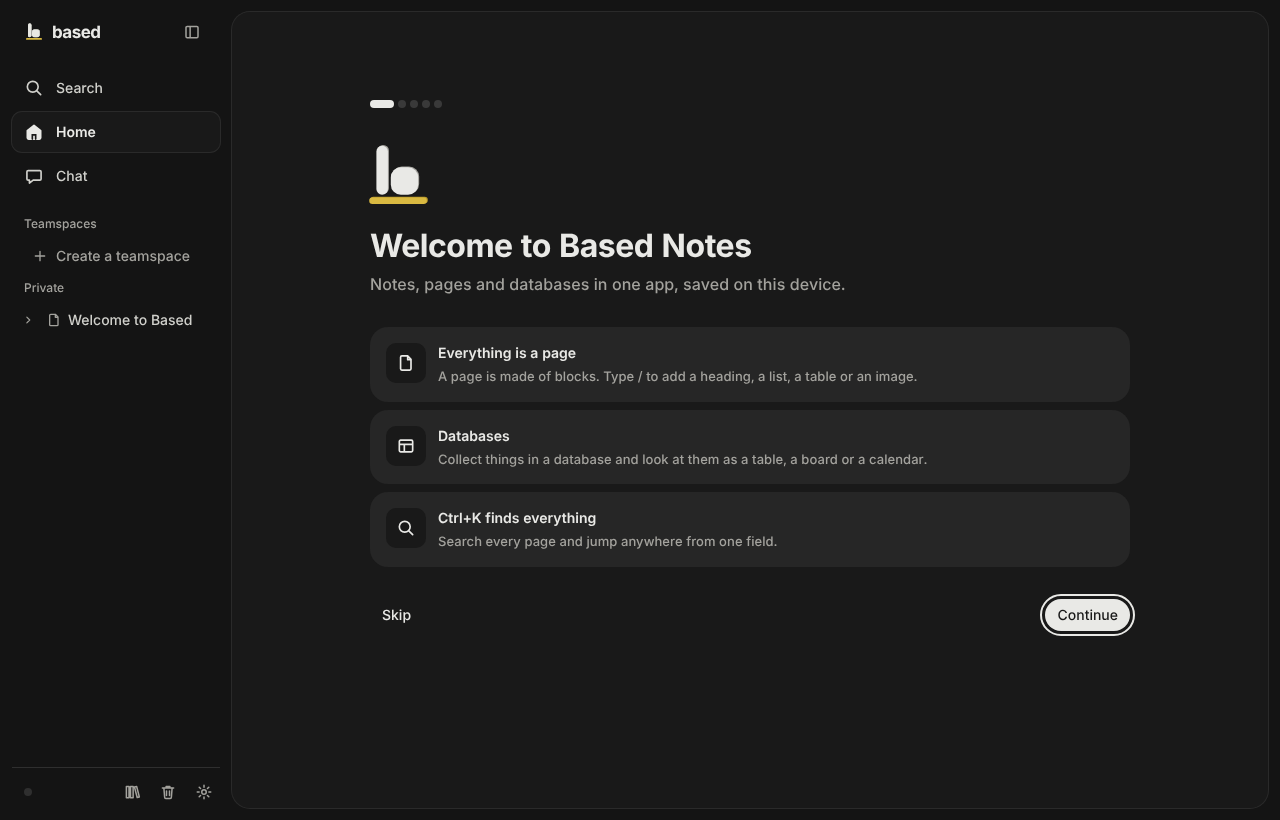
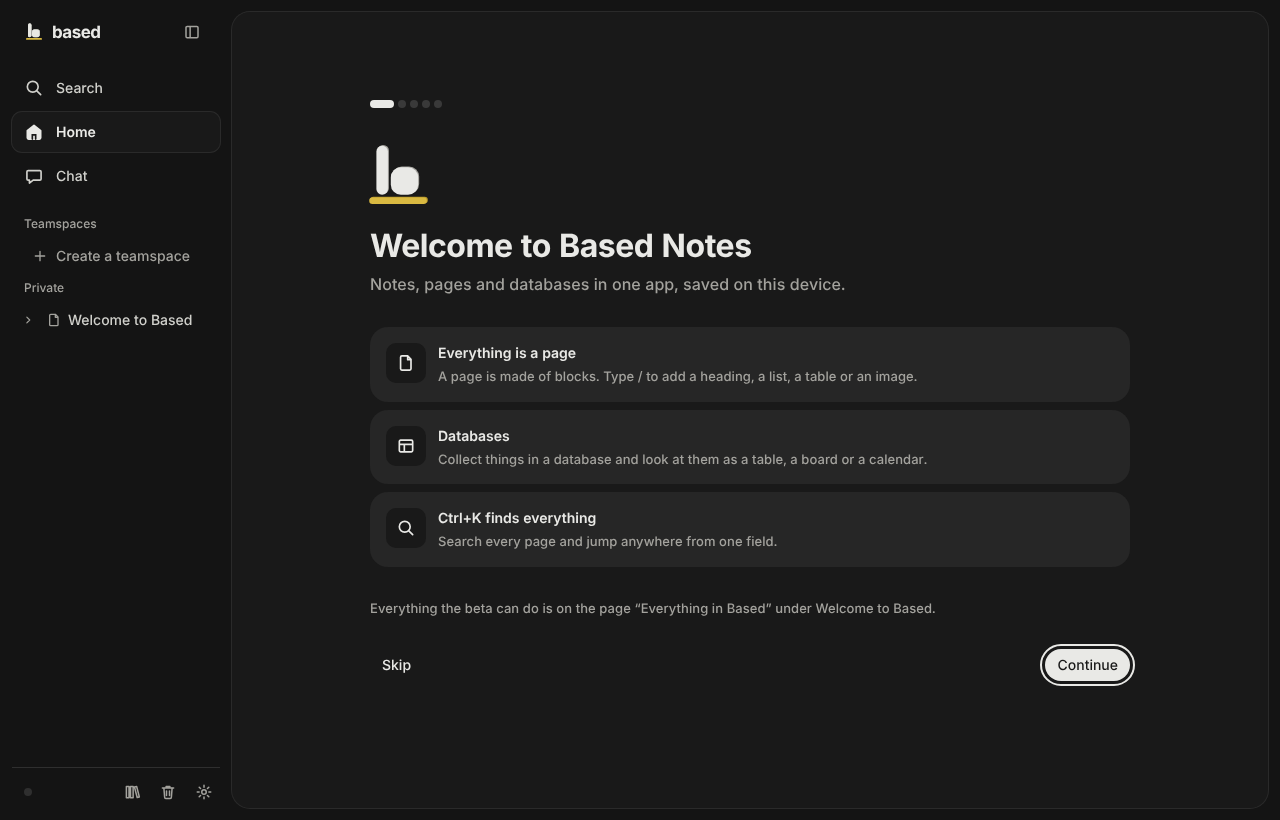
BSD-552: Mac-Beta · Einstieg 2: Seite „Everything in Based“ mit allen Funktionen der Beta
Fünfte Anleitung unter „Welcome to Based“ (worker/welcomeGuides.ts): alle
Funktionen der Beta nach Bereich (Pages and writing, Databases, Search and
navigation, Import and export, Your data, Meeting notes, The Mac app), je eine
Zeile mit Tastenkürzel, am Ende „Not in this beta yet“ (AI, iPhone, Sync über
Server, Teilen). Jede Zeile nennt ihre Zeile in replica/features.csv;
welcomeGuides.test.ts prüft beta = beta und ts = yes|partial und dass nichts
Ausgeblendetes genannt wird. Entsteht wie die anderen Anleitungen nur bei der
Wahl im Willkommen (bestehende Workspaces bekommen sie nicht). Im ersten
Schritt des Einstiegs genannt. E2E welcome.spec, Fotos hell/dunkel.

Claude-Session: https://claude.ai/code/session_01F33L4nMq24hNmEKsXnkjoA

Changed region(s): [[0.2812, 0.7317, 0.7188, 0.7622], [0.8125, 0.7012, 0.9062, 0.8537], [0.2812, 0.7927, 0.3125, 0.8232]]

diff --git a/apps/web/src/worker/welcomeGuides.ts b/apps/web/src/worker/welcomeGuides.ts
@@ -69,7 +69,106 @@ const GUIDES: readonly WelcomeGuide[] = [
   },
 ];
 
-export const WELCOME_GUIDES: readonly WelcomeGuide[] = welcomeGuides();
+/**
+ * BSD-552 (Mac-Beta, Einstieg 2): „Everything in Based“ – alle Funktionen der Beta, eine Zeile je Funktion. Jede Zeile
+ * nennt die Zeile in replica/features.csv, aus der sie kommt (Spalte `feature`); welcomeGuides.test.ts prüft, dass
+ * jede davon `beta = beta` und `ts = yes|partial` hat. Nichts, was auf beta ausgeblendet ist (AI, Graph, Coding,
+ * Echtzeit, Teilen, Whiteboard).
+ */
+export interface FeatureLine {
+  /** Name der Zeile in replica/features.csv */
+  readonly feature: string;
+  readonly text: string;
+}
+
+export const EVERYTHING_TITLE = "Everything in Based";
+
+export const EVERYTHING_GROUPS: readonly { readonly heading: string; readonly items: readonly FeatureLine[] }[] = [
+  {
+    heading: "Pages and writing",
+    items: [
+      { feature: "Slash command menu with search", text: "Type / in an empty line for any block: headings, lists, to-dos, toggles, callouts, code, tables, images and more." },
+      { feature: "Markdown block shortcuts (# - * + 1. [] > ``` ---)", text: "Markdown works as you type: # for a heading, - for a list, [] for a to-do, > for a quote." },
+      { feature: "Nested subpages (page inside page)", text: "Pages hold other pages, as deep as you like." },
+      { feature: "Columns (2-5)", text: "Drag a block next to another to make columns." },
+      { feature: "Turn into (any block type)", text: "Turn any block into another type from the block menu (⌘/)." },
+      { feature: "Undo / redo for text and structure", text: "⌘Z undoes typing, moves and deletes." },
+      { feature: "Page mention (@ / [[)", text: "Type @ to link a page or a date. Backlinks show where a page is mentioned." },
+      { feature: "Page icon (emoji)", text: "Give pages an icon, a cover, a font and full width." },
+      { feature: "Synced block", text: "Synced blocks show the same content in several places." },
+      { feature: "Find in page", text: "⌘F finds text on the page." },
+    ],
+  },
+  {
+    heading: "Databases",
+    items: [
+      { feature: "Database full page", text: "Create a database with ⌘N, as a full page or inside a page." },
+      { feature: "Multiple views per database", text: "See the same rows as a table, board, list, gallery, calendar, timeline or chart." },
+      { feature: "Filters (and/or groups)", text: "Filter, sort and group each view on its own." },
+      { feature: "Property: formula (Formula 2.0)", text: "Properties for text, numbers, dates, select, status, people, files, formulas, relations and rollups." },
+      { feature: "Row opens as page (side peek / center / full)", text: "Every row is a page. Open it at the side, in the center or full screen." },
+      { feature: "Database templates", text: "Templates fill new rows for you." },
+      { feature: "Large database performance (50k rows)", text: "Tens of thousands of rows stay fast." },
+    ],
+  },
+  {
+    heading: "Search and navigation",
+    items: [
+      { feature: "Quick Find search (titles + content)", text: "⌘K searches titles and text of every page, with recent pages first." },
+      { feature: "Tabs (Mac)", text: "Open pages in tabs (⌘T, ⌘W) or in a new window." },
+      { feature: "Favorites", text: "Star pages to keep them at the top of the sidebar." },
+      { feature: "Back / forward history", text: "⌘[ and ⌘] go back and forward." },
+      { feature: "Choose Home page", text: "Pick any page as Home." },
+    ],
+  },
+  {
+    heading: "Import and export",
+    items: [
+      { feature: "Import Notion export (Markdown & CSV)", text: "Bring your Notion export over with pages, databases and relations. Connect Notion directly to bring the views too." },
+      { feature: "Import Markdown files", text: "Import Markdown, HTML, CSV, Word, Obsidian, Logseq, Bear and Evernote." },
+      { feature: "Export page as Markdown", text: "Export a page or the whole workspace as Markdown, HTML, PDF or Word." },
+      { feature: "Lossless workspace archive export/import", text: "A Based archive keeps everything and imports back one to one." },
+    ],
+  },
+  {
+    heading: "Your data",
+    items: [
+      { feature: "Offline editing", text: "Everything works offline. Your workspace is a file on this Mac." },
+      { feature: "Automatic local backups + one-click restore", text: "Backups every hour, when you quit and before updates. Restore one in Settings." },
+      { feature: "Page history / versions", text: "Every page keeps its versions. Open the history to restore an older one." },
+      { feature: "Trash with restore and delete forever", text: "Deleted pages wait in the Trash until you empty it." },
+    ],
+  },
+  {
+    heading: "Meeting notes",
+    items: [
+      { feature: "Meeting notes (/meet): recording and on-device transcript", text: "Type /meet to record a meeting. The transcript is made on this Mac." },
+    ],
+  },
+  {
+    heading: "The Mac app",
+    items: [
+      { feature: "Dark mode (system + toggle)", text: "Light, dark or the system setting. ⇧⌘L switches." },
+      { feature: "Keyboard shortcuts: ⌘N ⌘P ⌘\\ ⌘[ ⌘] ⇧⌘L", text: "Hold ⌘ to see the shortcuts for where you are. ⇧⌘/ shows all of them." },
+      { feature: "Diagnostics: logs, hang watchdog, crash report, layout audit", text: "⇧⌘B saves a report of what just happened, to send to hello@basednotes.app." },
+    ],
+  },
+];
+
+/** Am Ende der Seite: was die Beta noch nicht kann (Entscheidung Elija 18.11.). */
+export const NOT_IN_BETA: readonly string[] = ["AI and agents", "The iPhone app", "Sync through a server for everyone", "Sharing pages with other people"];
+
+const EVERYTHING: WelcomeGuide = {
+  title: EVERYTHING_TITLE,
+  lines: [
+    ["text", "What you can do in this beta, one line each. Skim it now and come back when you need it."],
+    ...EVERYTHING_GROUPS.flatMap((g): Line[] => [["heading2", g.heading], ...g.items.map((it): Line => ["bulletedList", it.text])]),
+    ["heading2", "Not in this beta yet"],
+    ...NOT_IN_BETA.map((t): Line => ["bulletedList", t]),
+  ],
+};
+
+export const WELCOME_GUIDES: readonly WelcomeGuide[] = [...welcomeGuides(), EVERYTHING];
 
 /**
  * Legt die Willkommensseiten unter `parentID` an (am Ende, in fester Reihenfolge) und gibt ihre IDs zurück.

diff --git a/apps/web/src/worker/welcomeGuides.test.ts b/apps/web/src/worker/welcomeGuides.test.ts
@@ -1,6 +1,28 @@
 // BSD-305 Teil 5: Die Anleitung „Your data“ erwähnt AI nur in Builds, die AI anbieten (auf beta fehlt der Schalter).
+import { readFileSync } from "node:fs";
 import { describe, expect, it } from "vitest";
-import { welcomeGuides } from "./welcomeGuides.js";
+import { EVERYTHING_GROUPS, EVERYTHING_TITLE, NOT_IN_BETA, WELCOME_GUIDES, welcomeGuides } from "./welcomeGuides.js";
+
+/** replica/features.csv als Zeilen (einfacher CSV-Leser mit Anführungszeichen). */
+function features(): Map<string, Record<string, string>> {
+  const raw = readFileSync(new URL("../../../../replica/features.csv", import.meta.url), "utf8");
+  const rows: string[][] = [];
+  let row: string[] = [], cell = "", quoted = false;
+  for (let i = 0; i < raw.length; i++) {
+    const c = raw[i]!;
+    if (quoted) {
+      if (c === '"' && raw[i + 1] === '"') { cell += '"'; i++; }
+      else if (c === '"') quoted = false;
+      else cell += c;
+    } else if (c === '"') quoted = true;
+    else if (c === ",") { row.push(cell); cell = ""; }
+    else if (c === "\n") { row.push(cell); rows.push(row); row = []; cell = ""; }
+    else if (c !== "\r") cell += c;
+  }
+  if (cell || row.length) { row.push(cell); rows.push(row); }
+  const [head, ...body] = rows;
+  return new Map(body.map((r) => [r[0]!, Object.fromEntries(head!.map((h, i) => [h, r[i] ?? ""]))]));
+}
 
 const text = (ai: boolean) => welcomeGuides(ai).flatMap((g) => g.lines.map((l) => l[1])).join("\n");
 
@@ -19,5 +41,25 @@ describe("welcomeGuides", () => {
       expect(notion.length).toBeGreaterThan(0);
       for (const t of notion) if (/\bviews?\b/i.test(t)) expect(t).toMatch(/connect notion directly/i);
     }
+  });
+  it("BSD-552: „Everything in Based“ nennt nur Funktionen der Beta (features.csv: beta = beta, ts = yes|partial)", () => {
+    const csv = features();
+    const items = EVERYTHING_GROUPS.flatMap((g) => g.items);
+    expect(items.length).toBeGreaterThan(20);
+    for (const it of items) {
+      const row = csv.get(it.feature);
+      expect(row, it.feature).toBeDefined();
+      expect(row!.beta, it.feature).toBe("beta");
+      expect(row!.ts, it.feature).toMatch(/^(yes|partial)/);
+    }
+    // nichts, was auf beta ausgeblendet ist – außer in „Not in this beta yet“
+    const said = items.map((i) => i.text).join("\n");
+    expect(said).not.toMatch(/\bAI\b|agent|graph|coding|whiteboard|real-?time|share|sharing/i);
+    expect(NOT_IN_BETA.join(" ")).toMatch(/AI/);
+  });
+  it("BSD-552: fünfte Anleitung, unter drei Minuten zu lesen", () => {
+    expect(WELCOME_GUIDES.map((g) => g.title)).toEqual(["Basics", "Databases", "Keyboard", "Your data", EVERYTHING_TITLE]);
+    const words = WELCOME_GUIDES.at(-1)!.lines.map((l) => l[1]).join(" ").split(/\s+/).length;
+    expect(words).toBeLessThan(3 * 200); // ~200 Wörter pro Minute
   });
 });

diff --git a/apps/web/e2e/welcome.spec.ts b/apps/web/e2e/welcome.spec.ts
@@ -61,7 +61,7 @@ test("Frischer Speicher → Willkommen → Turn on agents → Start empty → An
 
     await welcome(page).getByRole("button", { name: /Start empty/ }).click();
     await expect(page.getByLabel("Page title")).toHaveValue("Welcome to Based");
-    for (const t of ["Basics", "Databases", "Keyboard", "Your data"]) await expect(page.getByTestId("page-content").getByText(t, { exact: true })).toBeVisible();
+    for (const t of ["Basics", "Databases", "Keyboard", "Your data", "Everything in Based"]) await expect(page.getByTestId("page-content").getByText(t, { exact: true })).toBeVisible();
 
     // danach die gewohnte Startseite, auch nach dem Neuladen
     await page.getByRole("button", { name: "Home" }).click();
@@ -212,6 +212,34 @@ test("Einstieg erneut über ⌘K „Welcome tour“: ohne Wahl am Ende, Daten bl
     await expect(tour(page)).toHaveCount(0);
   } finally {
     await close();
+  }
+});
+
+// BSD-552 (Mac-Beta, Einstieg 2): „Everything in Based“ als fünfte Anleitung – echte Seite mit den Bereichen und
+// „Not in this beta yet“, im ersten Schritt des Einstiegs genannt. Fotos 1280 × 820 hell/dunkel.
+test("Everything in Based: fünfte Anleitung mit allen Bereichen, im Einstieg genannt", async ({ playwright, browserName, baseURL }) => {
+  for (const theme of ["light", "dark"] as const) {
+    const { page, close } = await fresh(playwright, browserName, baseURL!);
+    try {
+      await page.addInitScript((t) => localStorage.setItem("based.appearance", JSON.stringify({ theme: t })), theme);
+      await page.goto("/");
+      await ready(page);
+      await expect(tour(page).getByTestId("welcome-tour-foot")).toContainText("Everything in Based");
+      await skipTour(page);
+      await expect(welcome(page).getByRole("button", { name: /Start empty/ })).toContainText("Everything in Based");
+      await welcome(page).getByRole("button", { name: /Start empty/ }).click();
+      await page.getByTestId("page-content").getByText("Everything in Based", { exact: true }).click();
+      await expect(page.getByLabel("Page title")).toHaveValue("Everything in Based");
+      const editor = page.getByTestId("block-editor");
+      for (const h of ["Pages and writing", "Databases", "Search and navigation", "Import and export", "Your data", "Meeting notes", "The Mac app", "Not in this beta yet"]) await expect(editor.getByText(h, { exact: true })).toBeVisible();
+      expect(await page.evaluate(() => document.documentElement.scrollWidth <= innerWidth)).toBe(true);
+      if (browserName === "chromium") {
+        await page.mouse.move(0, 0);
+        await page.screenshot({ path: `${SHOTS}web-welcome-everything-${theme}.png` });
+      }
+    } finally {
+      await close();
+    }
   }
 });
 

diff --git a/apps/web/src/screens/WelcomeTour.tsx b/apps/web/src/screens/WelcomeTour.tsx
@@ -14,6 +14,7 @@ import { keyLabel } from "../shell/keyHints.js";
 import { LogoIntro } from "../components/LogoIntro.js";
 import { MeetingNotesOption } from "./Welcome.js";
 import { tourKey, tourSteps } from "../shell/welcomeTour.js";
+import { EVERYTHING_TITLE } from "../worker/welcomeGuides.js";
 import "./welcome.css";
 
 /** „Not yet“ im Beta-Schritt: ohne AI-Schalter (beta) steht AI vorn. */
@@ -78,7 +79,8 @@ export function WelcomeTour({ mode, onFinish }: Props) {
       <div className="column">
         <BasedSteps count={total} current={index} testID="welcome-tour-steps" />
         {step === "basics" ? (
-          <Step title="Welcome to Based Notes" lead={`Notes, pages and databases in one app, saved on ${place}.`} logo>
+          <Step title="Welcome to Based Notes" lead={`Notes, pages and databases in one app, saved on ${place}.`} logo
+            foot={`Everything the beta can do is on the page “${EVERYTHING_TITLE}” under Welcome to Based.`}>
             <Idea icon="page" title="Everything is a page" text="A page is made of blocks. Type / to add a heading, a list, a table or an image." />
             <Idea icon="database" title="Databases" text="Collect things in a database and look at them as a table, a board or a calendar." />
             <Idea icon="search" title={`${keyLabel("K")} finds everything`} text="Search every page and jump anywhere from one field." />
@@ -111,7 +113,7 @@ export function WelcomeTour({ mode, onFinish }: Props) {
   );
 }
 
-function Step({ title, lead, logo = false, children }: { title: string; lead: string; logo?: boolean; children: React.ReactNode }) {
+function Step({ title, lead, logo = false, foot, children }: { title: string; lead: string; logo?: boolean; foot?: string; children: React.ReactNode }) {
   return (
     <>
       <header className="welcome-head">
@@ -120,6 +122,7 @@ function Step({ title, lead, logo = false, children }: { title: string; lead: st
         <p className="t-desc welcome-lead">{lead}</p>
       </header>
       <ul className="welcome-ideas">{children}</ul>
+      {foot ? <p className="t-desc welcome-foot" data-testid="welcome-tour-foot">{foot}</p> : null}
     </>
   );
 }
